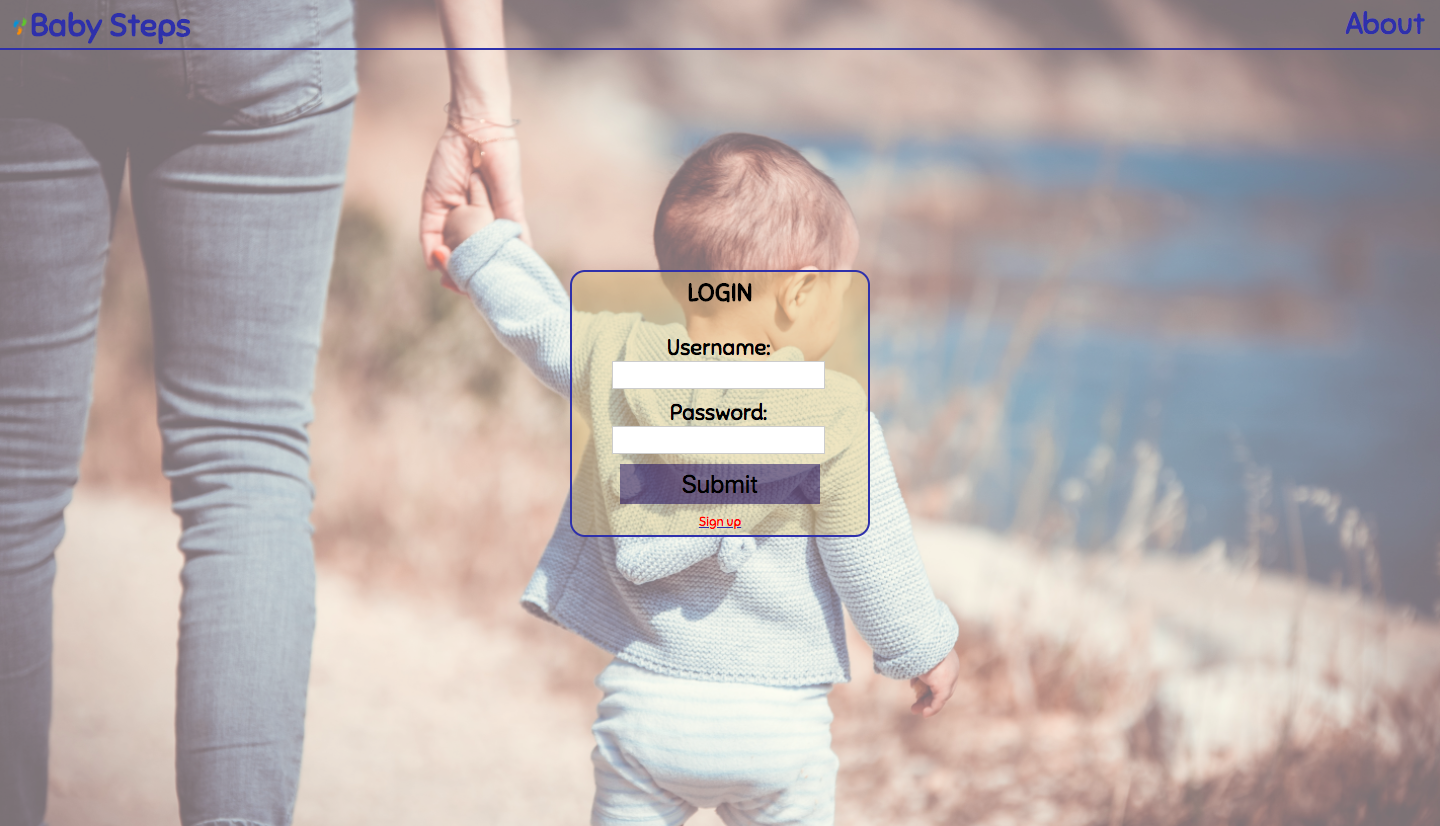
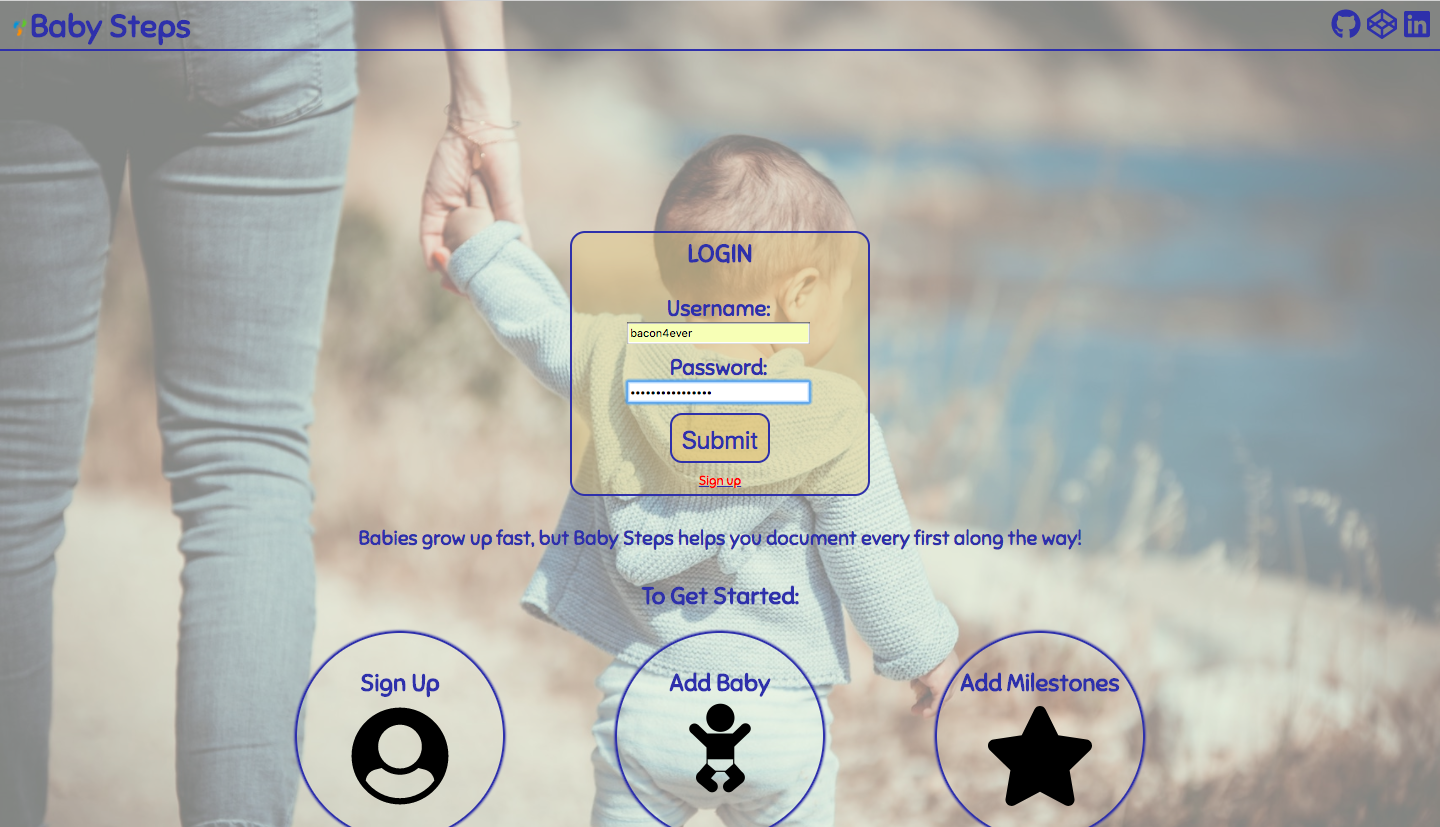
updaed Raedme page with new images of landing page and chnage sapmle loging to demo

diff --git a/README.md b/README.md
@@ -4,6 +4,8 @@ Babies experience so much exciting growth very quickly. Baby Steps allows the us
 
 <h2>Screen Shots</h2>
 <hr>
+<h3>Landing Page</h3>
+<img src="screenshots/landingcreen.png">
 <h3>Sign In/Sign Up</h3>
 <img src="screenshots/logingscreen.png">
 <img src="screenshots/signupscreen.png">
@@ -14,7 +16,7 @@ Babies experience so much exciting growth very quickly. Baby Steps allows the us
 <h2>DEMO</h2>
 <hr>
 <a href="https://babysteps-milestone.herokuapp.com/" target="_blank">Live Demo</a>
-<h3>Sample logIn</h3>
+<h3>DEMO logIn</h3>
 <p>Username: bacon4ever</p>
 <p>Password: notagoodpassword</p>
 
